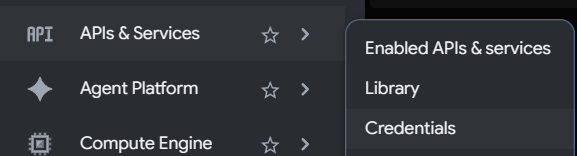
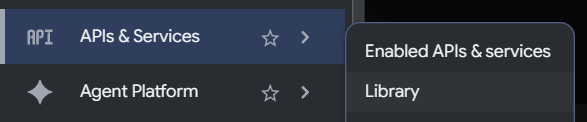
docs: update Google Cloud setup guide with step-by-step imagery for credential creation

diff --git a/README.md b/README.md
@@ -375,7 +375,6 @@ module.exports = app;
 Untuk menggunakan Google Calendar secara gratis, kita perlu membuat kunci API dari Google:
 
 1. Buka [Google Cloud Console](https://console.cloud.google.com/).
-   ![Google Cloud Console](/public/images/google_cloud_console.png)
 2. Buat Project baru (misal: `Clinic Assistant`).
    ![Buat Project](/public/images/create_project.png)
 3. Buka menu **APIs & Services** > **Library**.
@@ -389,13 +388,17 @@ Untuk menggunakan Google Calendar secara gratis, kita perlu membuat kunci API da
 Ini adalah halaman persetujuan Google yang akan muncul saat Anda memberikan akses:
 
 1. Ke menu **APIs & Services** > **OAuth consent screen**.
+   ![OAuth Consent Screen](/public/images/oauth_consent_screen.png) 
 2. Pilih **External** > klik **Create**.
 3. Isi informasi wajib:
-   - **App name**: (bebas, misal: Clinic Bot)
+   - **App name**: (bebas, misal: Clinic Assistant)
    - **User support email**: (email Anda)
    - **Developer contact info**: (email Anda)
+   ![App name](/public/images/app_name.png)
+
 4. Klik **Save and Continue** sampai selesai (tidak perlu isi scope spesifik).
 5. Pada halaman Audience / Ringkasan, klik **Publish App** (agar statusnya menjadi *In production* dan tidak *expired*).
+   ![Publish App](/public/images/publish_app.png)
 
 ---
 
@@ -404,7 +407,9 @@ Ini adalah halaman persetujuan Google yang akan muncul saat Anda memberikan akse
 Ini adalah langkah untuk mendapatkan `Client ID` dan `Client Secret` milik Anda:
 
 1. Ke menu **APIs & Services** > **Credentials**.
+   ![Credentials](/public/images/credentials.png)
 2. Klik **Create Credentials** > **OAuth client ID**.
+   ![Create Credentials](/public/images/create_credentials.png)
 3. Pilih **Application type**: **Web application**.
 4. Beri nama (misal: `Proxy`).
 5. Pada bagian **Authorized redirect URIs**, klik **Add URI**.
@@ -412,8 +417,9 @@ Ini adalah langkah untuk mendapatkan `Client ID` dan `Client Secret` milik Anda:
    ```
    https://developers.google.com/oauthplayground
    ```
+   ![Authorized redirect URIs](/public/images/authorized_redirect_uris.png)
 7. Klik **Create**. Anda akan mendapatkan **Client ID** dan **Client secret**. Catat dan simpan keduanya!
-
+   ![Client ID and Client Secret](/public/images/client_id_and_client_secret.png)
 ---
 
 ### 5. Dapatkan Refresh Token via Google OAuth Playground
